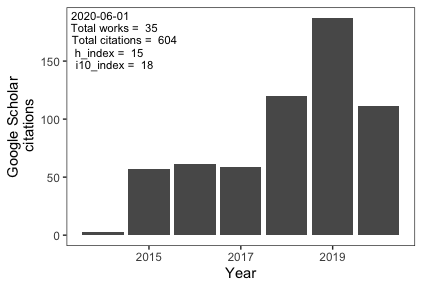
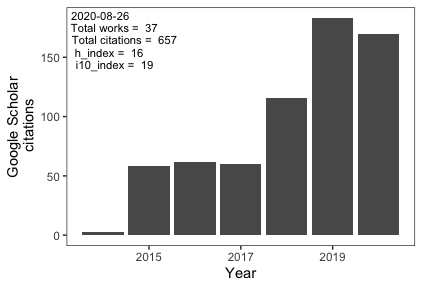
update cv

diff --git a/docs/README.md b/docs/README.md
@@ -13,7 +13,6 @@ Gatton, Queensland, Australia - <nicholas.j.clark1214@gmail.com> -
 [Homepage](http://nicholasjclark.weebly.com/) -
 [Github](https://github.com/nicholasjclark) - [Google
 Scholar](https://scholar.google.com.au/citations?hl=en&user=5bO9uxEAAAAJ&view_op=list_works&gmla=AJsN-F7bdYY9zcTVOHPEOVWZOJmCtgWpcxs_93x6Nxu1saXGdZjQLZ9byuM7Bdln9uk-HvNvAG1pThmdF6m_XgubeW0Q2sVTsjvpgou00G94hSHvb99iNTk)
-- [ResearchGate](https://www.researchgate.net/profile/Nicholas_Clark4)
 
 ## Career Summary
 
@@ -25,7 +24,7 @@ pathogens interact with their hosts across urbanisation gradients.
 
 ## Transferable Skills
 
-  - Strong communication skills: 34 publications in peer-reviewed
+  - Strong communication skills: 36 publications in peer-reviewed
     journals; six international presentations
   - Broad teaching experience: coordinated three undergraduate genetics
     courses
@@ -191,10 +190,6 @@ methods and field observations*
 
 ## Publications in Review
 
-**Clark, NJ**, Kerry, JT, and Fraser, CI. Rapid winter warming will
-disproportionately disrupt marine fish community structure (3rd
-submission 15/05/20)
-
 Abeykoon, H, **Clark, NJ**, Vincent, GA, Stevenson, M, Firestone, SM,
 and Wietholter, A. *Coxiella burnetii* in the environment: a systematic
 review and critical appraisal of sampling methods (1st submission
@@ -203,12 +198,8 @@ review and critical appraisal of sampling methods (1st submission
 McGowan, A, Lanyon, J, **Clark, NJ**, Blair, D, Marsh, H, Wolanski, E,
 and Seddon, J. Seascape genetics of a mobile marine mammal: evidence of
 an abrupt break in dugong (*Dugong dugon*, Müller) gene flow along
-Australia’s eastern Queensland coast (2nd submission 18/01/20)
-
-**Clark, NJ**, Drovetski, SV and Voelker, G. Avian malaria in the
-changing climate: denser vegetation and warmer winters increase parasite
-infection risk in Western Palearctic birds. (1st submission
-08/04/19)
+Australia’s eastern Queensland coast (2nd submission
+18/01/20)
 
 ## Citations
 
@@ -217,6 +208,17 @@ infection risk in Western Palearctic birds. (1st submission
 ## Full Publication List
 
 **2020**
+
+\[36\] **Clark, NJ**, Drovetski, SV and Voelker, G. Robust geographical
+determinants of infection prevalence and a contrasting latitudinal
+diversity gradient for haemosporidian parasites in Western Palearctic
+birds. *Molecular Ecology* DOI: <https://doi.org/10.1111/mec.15545> (IF:
+6.086)
+
+\[35\] **Clark, NJ**, Kerry, JT, and Fraser, CI. Rapid winter warming
+will disproportionately disrupt marine fish community structure *Nature
+Climate Change* DOI: <https://doi.org/10.1038/s41558-020-0838-5> (IF:
+20.893)
 
 \[34\] Mone, NK, **Clark, NJ**, Kyaw-Tanner, M, Turni, C, Barnes, TS,
 Parke, CR, Alawneh, JA, Blackall, PJ, and Meers, J. Genetic analysis of
@@ -532,7 +534,7 @@ Conversation*](https://theconversation.com/australias-drought-could-be-increasin
 Authored media article: Towards pre-empting global disease spread [*The
 Conversation*](https://theconversation.com/drafts/115660/edit)  
 Oral presentation: *Ecology and Evolutionary Biology* seminar series,
-Texax A\&M University, College Station, USA
+Texas A\&M University, College Station, USA
 
 **2018**
 
@@ -655,7 +657,7 @@ coordinating, teaching and mentoring students. This has provided me with
 a set of leadership and organizational skills that is unique among my
 peers. It also taught me to be proficient with the time I have available
 for research. Since first joining UQ SVS as a Postdoctoral Fellow in
-July 2017, I have published 24 papers, bringing my total to 34
+July 2017, I have published 26 papers, bringing my total to 36
 publications. The quality and significance of this work is reflected by
 my exemplary publication record in some of the top journals in disease
 ecology. According to *Web of Science* analytics, four of my papers are
